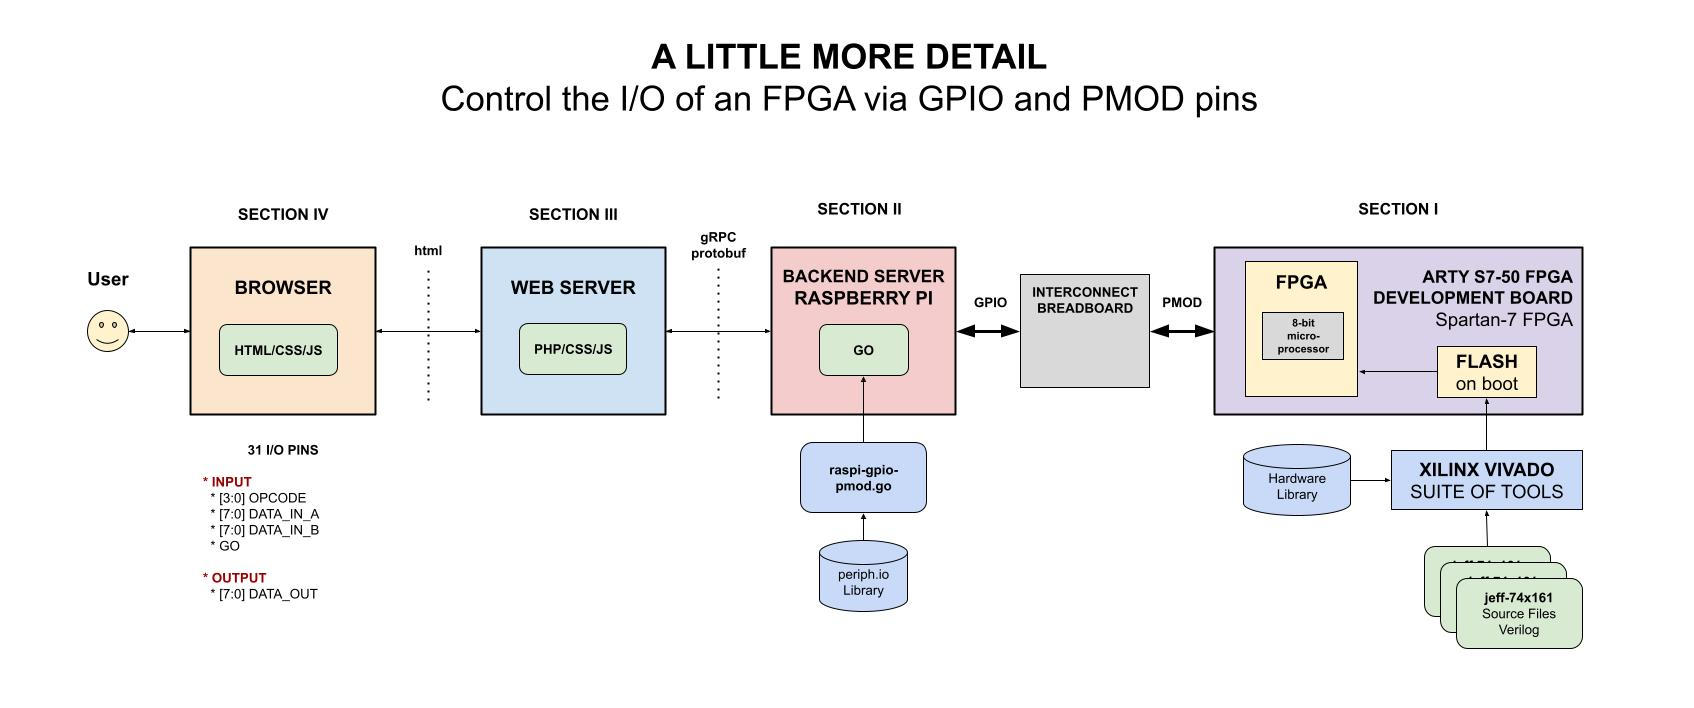
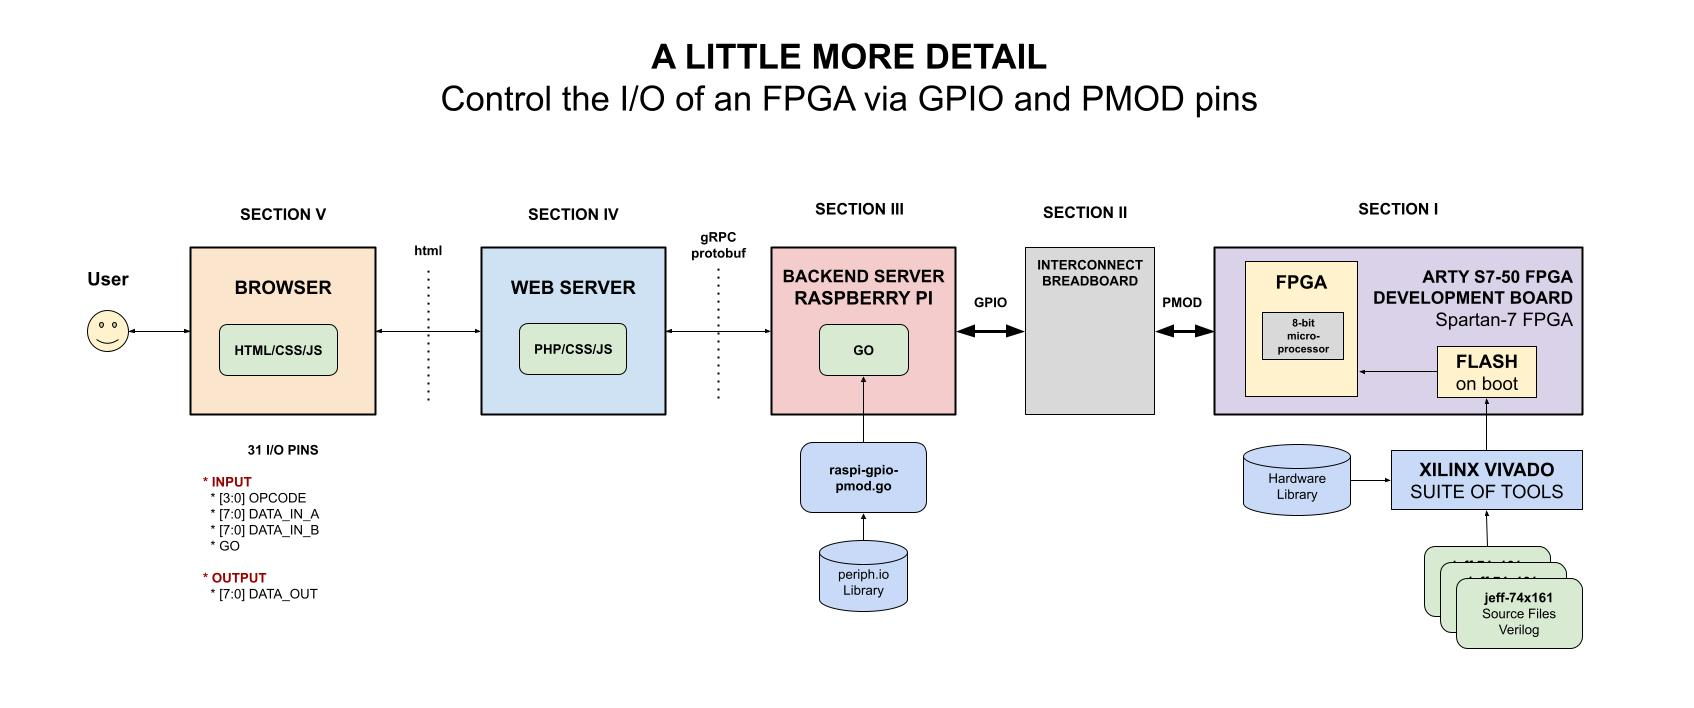
revamping readme

diff --git a/section-3-web-server/control-an-fpga/try-it/try-it.php b/section-3-web-server/control-an-fpga/try-it/try-it.php
@@ -189,7 +189,7 @@
                     </div>
                 </div>
                 <div class="section_footer">
-                    PHP/CSS/JS
+                    PHP
                 </div>
             </div>
 
@@ -222,7 +222,7 @@
                     </div>
                 </div>
                 <div class="section_footer">
-                    GO
+                    GO (ON DOCKER)
                 </div>
             </div>
 

diff --git a/section-3-web-server/control-an-fpga/php_scripts/post_data_to_server.php b/section-3-web-server/control-an-fpga/php_scripts/post_data_to_server.php
@@ -39,7 +39,7 @@
       'data_out'=>$data_out,
     ];
 
-    // SEND IT TO THE BROWSER
+    // SEND RESPONSE TO THE BROWSER
     echo json_encode($array);
 
     // CLOSE FILE

diff --git a/README.md b/README.md
@@ -10,33 +10,36 @@
 *** THE REPO IS UNDER CONSTRUCTION - CHECK BACK SOON ***
 ```
 
-_Control a FPGA via a Raspberry Pi and a Webserver. As an example, I burned my
+_Control an FPGA via a Raspberry Pi and a Webserver. As an example, I burned my
 [programable-8-bit-microprocessor](https://github.com/JeffDeCola/my-systemverilog-examples/tree/master/systems/microprocessors/programable-8-bit-microprocessor)
 to an FPGA development board and you can control it at
 [jeffdecola.com/control-an-fpga](https://jeffdecola.com/control-an-fpga)._
 
+Table of Contents
+
 * [TRY IT](https://github.com/JeffDeCola/control-fpga-via-raspi-and-webserver#try-it)
 * [OVERVIEW](https://github.com/JeffDeCola/control-fpga-via-raspi-and-webserver#overview)
-* [SOFTWARE STACK](https://github.com/JeffDeCola/control-fpga-via-raspi-and-webserver#software-stack)
+* [SOFTWARE/HARDWARE STACK](https://github.com/JeffDeCola/control-fpga-via-raspi-and-webserver#softwarehardware-stack)
 * [SECTION I - THE FPGA](https://github.com/JeffDeCola/control-fpga-via-raspi-and-webserver#section-i---the-fpga)
-  * [FPGA (8-BIT MICROPROCESSOR)](https://github.com/JeffDeCola/control-fpga-via-raspi-and-webserver#fpga-8-bit-microprocessor)
-  * [AS A SERVER (CONNECTION TO RASPBERRY PI)](https://github.com/JeffDeCola/control-fpga-via-raspi-and-webserver#as-a-server-connection-to-raspberry-pi)
-* [SECTION II - THE RASPBERRY PI](https://github.com/JeffDeCola/control-fpga-via-raspi-and-webserver#section-ii---the-raspberry-pi)
-  * [AS A CLIENT (FPGA CONNECTION)](https://github.com/JeffDeCola/control-fpga-via-raspi-and-webserver#as-a-client-fpga-connection)
-  * [AS A SERVER (WEB SERVER CONNECTION)](https://github.com/JeffDeCola/control-fpga-via-raspi-and-webserver#as-a-server-web-server-connection)
-  * [GO INTEGRATION AND DEPLOYMENT](https://github.com/JeffDeCola/control-fpga-via-raspi-and-webserver#go-integration-and-deployment)
-* [SECTION III - THE WEB SERVER](https://github.com/JeffDeCola/control-fpga-via-raspi-and-webserver#section-iii---the-web-server)
-  * [AS A SERVER (BROWSER CONNECTION)](https://github.com/JeffDeCola/control-fpga-via-raspi-and-webserver#as-a-server-browser-connection)
-  * [AS A CLIENT (RASPBERRY PI CONNECTION)](https://github.com/JeffDeCola/control-fpga-via-raspi-and-webserver#as-a-client-raspberry-pi-connection)
-* [SECTION IV - THE BROWSER](https://github.com/JeffDeCola/control-fpga-via-raspi-and-webserver#section-iv---the-browser)
-  * [AJAX XHR POST CALL](https://github.com/JeffDeCola/control-fpga-via-raspi-and-webserver#ajax-xhr-post-call)
+  * [FPGA (MY 8-BIT MICROPROCESSOR)](https://github.com/JeffDeCola/control-fpga-via-raspi-and-webserver#fpga-my-8-bit-microprocessor)
+  * [SERVER SIDE (CONNECTION TO RASPBERRY PI)](https://github.com/JeffDeCola/control-fpga-via-raspi-and-webserver#server-side-connection-to-raspberry-pi)
+* [SECTION II - THE BREADBOARD](https://github.com/JeffDeCola/control-fpga-via-raspi-and-webserver#section-ii---the-breadboard)
+* [SECTION III - THE RASPBERRY PI](https://github.com/JeffDeCola/control-fpga-via-raspi-and-webserver#section-iii---the-raspberry-pi)
+  * [CLIENT SIDE (CONNECTION TO FPGA)](https://github.com/JeffDeCola/control-fpga-via-raspi-and-webserver#client-side-connection-to-fpga)
+  * [SERVER SIDE (CONNECTION TO WEB SERVER)](https://github.com/JeffDeCola/control-fpga-via-raspi-and-webserver#server-side-connection-to-web-server)
+  * [DOCKER (GO INTEGRATION AND DEPLOYMENT)](https://github.com/JeffDeCola/control-fpga-via-raspi-and-webserver#docker-go-integration-and-deployment)
+* [SECTION IV - THE WEB SERVER](https://github.com/JeffDeCola/control-fpga-via-raspi-and-webserver#section-iv---the-web-server)
+  * [CLIENT SIDE (CONNECTION TO RASPBERRY PI)](https://github.com/JeffDeCola/control-fpga-via-raspi-and-webserver#client-side-connection-to-raspberry-pi)
+  * [SERVER SIDE (CONNECTION TO BROWSER)](https://github.com/JeffDeCola/control-fpga-via-raspi-and-webserver#server-side-connection-to-browser)
+* [SECTION V - THE BROWSER](https://github.com/JeffDeCola/control-fpga-via-raspi-and-webserver#section-v---the-browser)
+  * [CLIENT SIDE (CONNECTION TO WEB SERVER)](https://github.com/JeffDeCola/control-fpga-via-raspi-and-webserver#client-side-connection-to-web-server)
   * [WEBSITE](https://github.com/JeffDeCola/control-fpga-via-raspi-and-webserver#website)
 
 Documentation and Reference
 
 * I burned my
-  [programable-8-bit-microprocessor](https://github.com/JeffDeCola/my-systemverilog-examples/tree/master/systems/microprocessors/programable-8-bit-microprocessor)
-  to a FPGA
+  [programable-8-bit-microprocessor](https://github.com/JeffDeCola/my-systemverilog-examples/tree/master/systems/microprocessors/programable_8_bit_microprocessor)
+  to an FPGA
 * The
   [control-fpga-via-raspi-and-webserver](https://hub.docker.com/r/jeffdecola/control-fpga-via-raspi-and-webserver)
   docker image at dockerhub
@@ -55,12 +58,13 @@ I have a working demo at
 
 ## OVERVIEW
 
-This project is separated into 4 main sections,
+This project is separated into 5 main sections,
 
-1. The FPGA
-1. The BACKEND SERVER (Raspberry Pi) to control the I/O of the FPGA
-1. The WEB SERVER (bluehost) providing the interface between the frontend and backend
-1. The BROWSER to provide a GUI
+1. The FPGA (ARTY S7-50)
+1. The BREADBOARD
+1. The BACKEND SERVER (Raspberry Pi 4B)
+1. The WEB SERVER (bluehost)
+1. The BROWSER
 
 This may help,
 
@@ -71,22 +75,27 @@ in the following four sections,
 
 ![IMAGE - 8-bit processor - IMAGE](docs/pics/controlling-my-programable-8-bit-microprocessor-from-a-raspi-and-webserver.jpg)
 
-## SOFTWARE STACK
+## SOFTWARE/HARDWARE STACK
 
-* SECTION 1 - The FPGA
+* SECTION I - The FPGA
   * [Verilog](https://github.com/JeffDeCola/my-cheat-sheets/tree/master/hardware/development/languages/verilog-cheat-sheet)
   * [Xilinx Vivado](https://github.com/JeffDeCola/my-cheat-sheets/tree/master/hardware/tools/synthesis/xilinx-vivado-cheat-sheet)
   * [Digilent ARTY-S7](https://github.com/JeffDeCola/my-cheat-sheets/tree/master/hardware/development/fpga-development-boards/digilent-arty-s7-cheat-sheet)
-* SECTION 2 - The Raspberry Pi
+* SECTION II - The Breadboard
+  * Connectors, resistors and wires
+* SECTION III - The Backend Server
+  * [Raspberry pi 4B](https://github.com/JeffDeCola/my-cheat-sheets/tree/master/other/stem/technology/single-board-computers/raspberry-pi/specifications-cheat-sheet)
   * [go](https://github.com/JeffDeCola/my-cheat-sheets/tree/master/software/development/languages/go-cheat-sheet)
   * [docker](https://github.com/JeffDeCola/my-cheat-sheets/tree/master/software/operations/orchestration/builds-deployment-containers/docker-cheat-sheet)
   * [dockerhub](https://hub.docker.com/)
   * [concourse](https://github.com/JeffDeCola/my-cheat-sheets/tree/master/software/operations/continuous-integration-continuous-deployment/concourse-cheat-sheet)
-* SECTION 3 - The Web Server
-  * php, css, js
+* SECTION IV - The Web Server
+  * php
   * [bluehost](https://www.bluehost.com/)
-* SECTION 4 - The Browser
-  * js, html, css
+* SECTION V - The Browser
+  * js
+  * html
+  * css
 
 ## SECTION I - THE FPGA
 
@@ -108,7 +117,11 @@ Summary,
 Refer to that repo on how I accomplished this. I will provide a
 high level overview.
 
-### FPGA (8-BIT MICROPROCESSOR)
+### FPGA (MY 8-BIT MICROPROCESSOR)
+
+I designed a
+[programable-8-bit-microprocessor](https://github.com/JeffDeCola/my-systemverilog-examples/tree/master/systems/microprocessors/programable-8-bit-microprocessor)
+in verilog and burned to an FPGA.  Refer to that repo on how I accomplished this.
 
 #### VERILOG
 
@@ -137,28 +150,15 @@ Arty S7-50 FPGA development board.
 
 ![IMAGE - digilent-arty-s7-50.jpg - IMAGE](https://github.com/JeffDeCola/my-cheat-sheets/blob/master/docs/pics/digilent-arty-s7-50.jpg?raw=true)
 
-### AS A SERVER (CONNECTION TO RASPBERRY PI)
+### SERVER SIDE (CONNECTION TO RASPBERRY PI)
 
 The FPGA is connected to the Raspberry Pi via the PMOD pins.
-This will be shown in the following section.
 
-## SECTION II - THE RASPBERRY PI
+## SECTION II - THE BREADBOARD
 
-The Raspberry Pi has two main functions,
-
-* AS A CLIENT - Controls 28 pins of the I/O of the FPGA (GPIO to PMOD) via GO
-* AS A SERVER - Provide an interface to the webserver (gRPC)
-
-### AS A CLIENT (FPGA CONNECTION)
-
-The Raspberry Pi will control the I/O of the FPGA via the
-GPIO pins. The Raspberry Pi will be the client and the FPGA
-will be the server.
-
-#### BREADBOARD (GPIO to PMOD)
-
-To connect to the Raspberry Pi a breadboard was used to
-connect the GPIO pins to the PMOD pins on the FPGA development board.
+To connect the Raspberry Pi to the FPGA dev board, I used a breadboard.
+I connected the GPIO pins on the Raspberry Pi 4B
+to the PMOD pins on the FPGA development board.
 
 There are a total of 31 pins used by the microprocessor,
 but there are only 28 GPIO pins. Hence, I tied 3 of the
@@ -228,6 +228,19 @@ The result,
 
 ![IMAGE - arty-s7-breadboard-and-raspberry-pi.jpg - IMAGE](docs/pics/arty-s7-breadboard-and-raspberry-pi.jpg)
 
+## SECTION III - THE RASPBERRY PI
+
+The Raspberry Pi has two main functions,
+
+* AS A CLIENT - Controls 28 pins of the I/O of the FPGA (GPIO to PMOD) via GO
+* AS A SERVER - Provide an interface to the webserver (gRPC)
+
+### CLIENT SIDE (CONNECTION TO FPGA)
+
+The Raspberry Pi will control the I/O of the FPGA via the
+GPIO pins. The Raspberry Pi will be the client and the FPGA
+will be the server.
+
 #### CONTROL FPGA I/O VIA GO
 
 The Raspberry Pi will control the FPGA via GO using the
@@ -270,7 +283,7 @@ For outputs also set the pulldown resistor,
   }
 ```
 
-### AS A SERVER (WEB SERVER CONNECTION)
+### SERVER SIDE (CONNECTION TO WEB SERVER)
 
 The Raspberry Pi will also be a server using gRPC.
 It will accept requests from a web server client and
@@ -280,7 +293,7 @@ return the results.
 
 tbd
 
-### GO INTEGRATION AND DEPLOYMENT
+### DOCKER (GO INTEGRATION AND DEPLOYMENT)
 
 A go program will interface with both the FPGA and web server.
 It will placed in a
@@ -476,35 +489,60 @@ Refer to
 [ci-README.md](https://github.com/JeffDeCola/control-fpga-via-raspi-and-webserver/blob/master/ci-README.md)
 on how I automated the above steps.
 
-## SECTION III - THE WEB SERVER
+## SECTION IV - THE WEB SERVER
 
-The web server will handle a request from the browser and forward
-those requests to the Raspberry Pi.
+The web server has two main functions,
 
-It will also receive data from the Raspberry Pi and forward
-that data to the browser.
+* AS A CLIENT - It will also receive data from the Raspberry Pi via gRPC
+* AS A SERVER - It will handle a request from the browser
 
-Hence, the web server is both a server and a client.
-
-### AS A SERVER (BROWSER CONNECTION)
+### CLIENT SIDE (CONNECTION TO RASPBERRY PI)
 
 tbd
 
-### AS A CLIENT (RASPBERRY PI CONNECTION)
+### SERVER SIDE (CONNECTION TO BROWSER)
 
-tbd
+php is used to handle the ajax XHR POST call
+request from the browser.
 
-## SECTION IV - THE BROWSER
+This is a high level overview of the process,
+
+```php
+        // GET THE JSON DATA FROM THE USER
+        header("Content-Type: application/json");
+        $attributesJSON = json_decode(file_get_contents("php://input"));
+
+        // UN PARSE IT
+        $opcode = $attributesJSON->opcode;
+        $data_in_a = $attributesJSON->data_in_a;
+        $data_in_b = $attributesJSON->data_in_b;
+        $go = $attributesJSON->go;
+
+        // DO SOMETHING - THIS IS WHERE YOU WOULD SEND DATA TO THE FPGA
+        ...
+
+        // BUILD ARRAY
+        $array = [
+          'data_out'=>$data_out,
+        ];
+
+        // SEND RESPONSE TO THE BROWSER
+        echo json_encode($array);
+```
+
+## SECTION V - THE BROWSER
 
 I have a working demo at
 [jeffdecola.com/control-an-fpga](https://jeffdecola.com/control-an-fpga).
 
-### AJAX XHR POST CALL
+### CLIENT SIDE (CONNECTION TO WEB SERVER)
 
 To connect with the webserver, I'm using javascript client side
 programming. It will send a ajax XHR POST call to the web server.
 
-On the browser side,
+#### AJAX XHR POST CALL
+
+On the browser side using javascript, an ajax XHR POST call is made to the web server,
 
 ```js
         // PHP FILE LOCATION
@@ -515,8 +553,10 @@ On the browser side,
         
         // CONVERT JSON TO STRING
         var attributesJSONString = JSON.stringify({
-            "operand1": operand1,
-            "operand2": operand2
+            "opcode": opcode,
+            "data_in_a": data_in_a,
+            "data_in_b": data_in_b,
+            "go": go
         });
 
         // OPEN CONNECTION - CREATE POST REQUEST
@@ -530,21 +570,6 @@ On the browser side,
         postRequest.onreadystatechange = function() {
             ...see code...
         }
-```
-
-On the webserver side,
-
-```php
-        // GET THE JSON DATA FROM THE USER
-        header("Content-Type: application/json");
-        $attributesJSON = json_decode(file_get_contents("php://input"));
-
-        // UN PARSE IT
-        $operand1 = $attributesJSON->operand1;
-        $operand2 = $attributesJSON->operand2;
-
-        // DO SOMETHING
-        ... 
 ```
 
 ### WEBSITE
